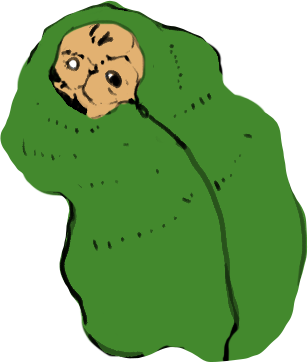
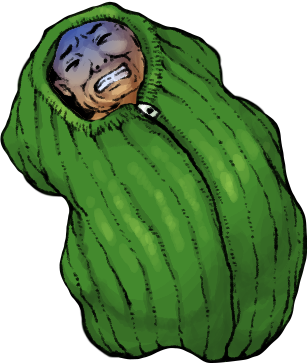
New art, make sure it goes to proper sprite after hit routine.

diff --git a/Assets/Scripts/GamePiece.cs b/Assets/Scripts/GamePiece.cs
@@ -221,7 +221,7 @@ public class GamePiece : MonoBehaviour {
     private Coroutine getHitRoutine = null;
     private const float HIT_RED_TIME = 0.4f;
     private static readonly WaitForSeconds hitWait = new WaitForSeconds(HIT_RED_TIME);
-    private static readonly WaitForSeconds invulnerableWait = new WaitForSeconds(1f);
+    private static readonly WaitForSeconds invulnerableWait = new WaitForSeconds(0.5f);
     private IEnumerator GetHit()
     {
         countdownFlashRoutine = StartCoroutine(FlashCountdownColor(sleepCountdown));
@@ -230,6 +230,7 @@ public class GamePiece : MonoBehaviour {
         yield return hitWait;
         theRender.sprite = WithinFire ? sleepingSprite : coldSprite;
         yield return invulnerableWait;
+        theRender.sprite = WithinFire ? sleepingSprite : coldSprite;
         getHitRoutine = null;
     }
 
